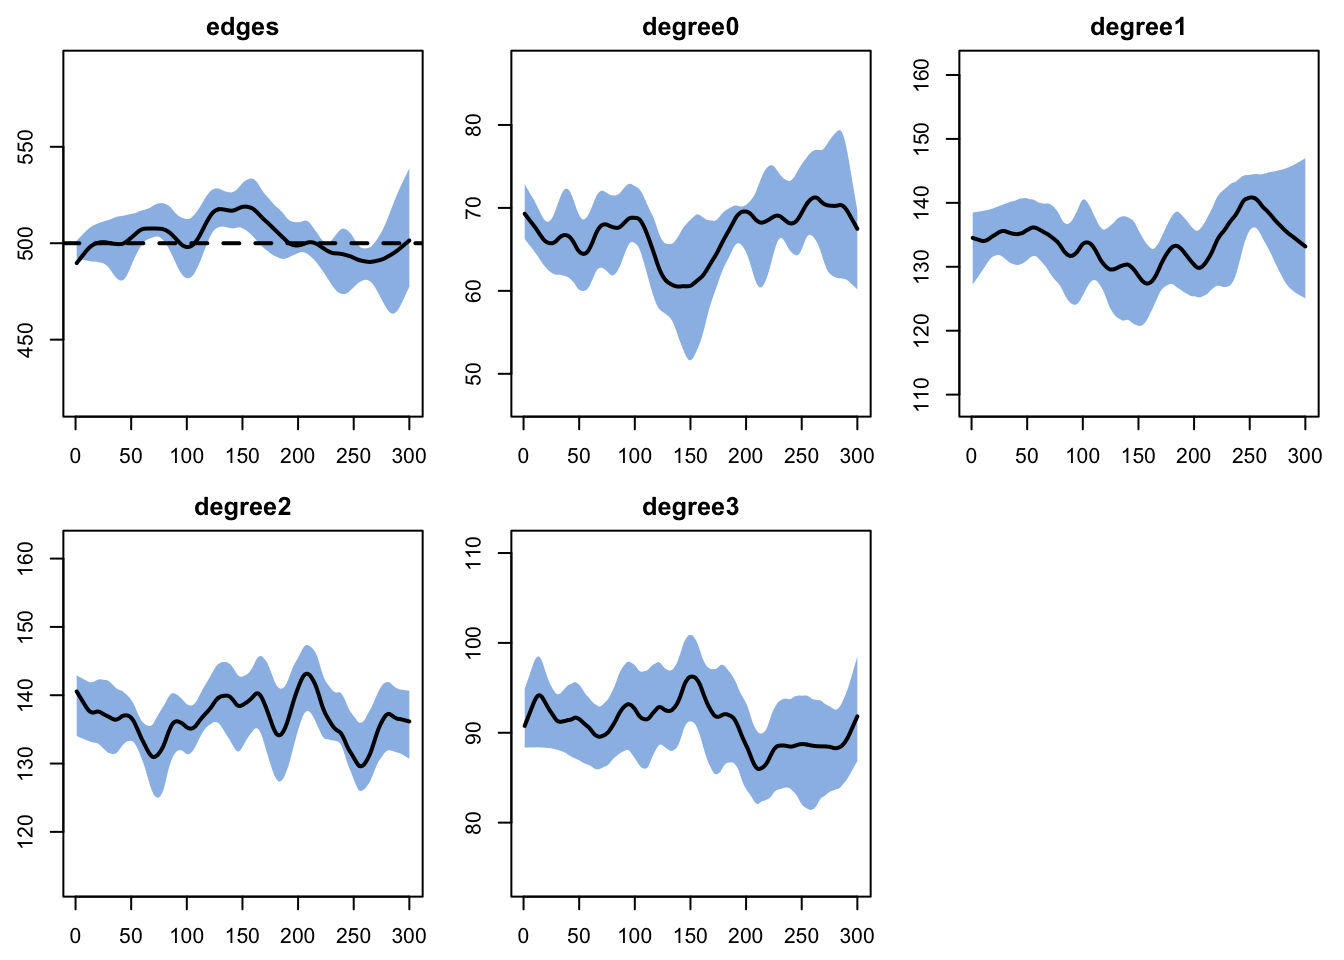
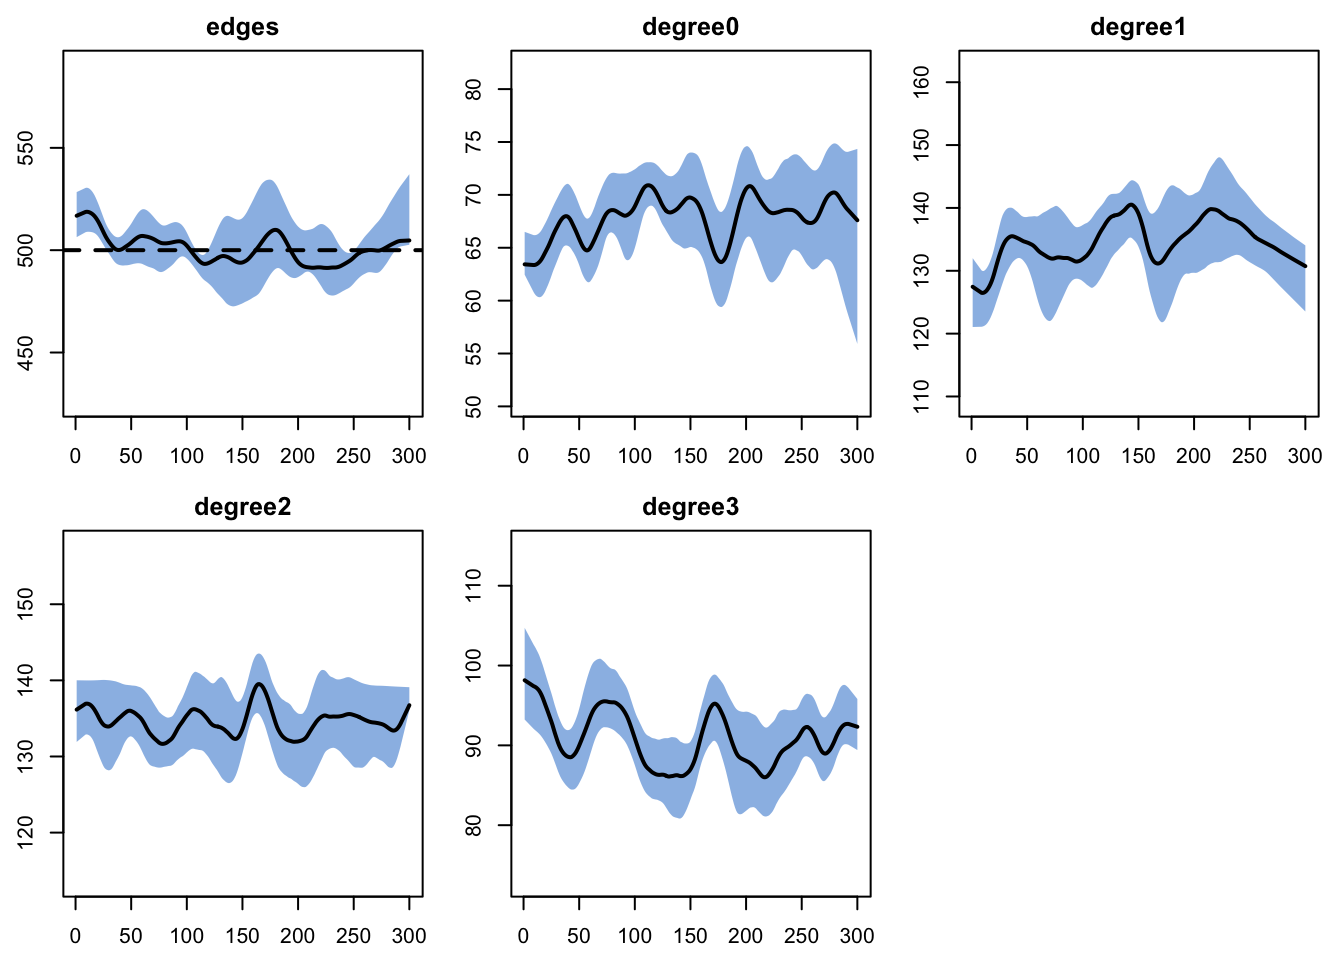
Seed the risk compensation run and state what holds across runs
The page called iso.mult = 0.1 "household-only contacts", but the model
has one uniform network; the text now says it holds contact with every
partner to 10% of the healthy rate. Re-rendering for that change gave a
different realization, because the run was not seeded, and two sentences
did not hold up: the naive model "overstates the percent reduction by a
factor of two or more" and the dynamic model "barely moves." Across six
runs with different seeds the naive reduction was 1.3 to 2.2 times the
dynamic one, and 34 to 60% for the dynamic model. The naive model
projected the larger reduction, and needed about half the inf.prob, in
every run.

The run is now seeded, the page reports this run's reductions inline,
and it says how much the gap varies and why (five simulations of 500
people per calibration step).

diff --git a/examples/behavioral-risk-compensation/README.md b/examples/behavioral-risk-compensation/README.md
@@ -9,7 +9,7 @@ Two structurally identical models are calibrated to the same cumulative attack r
 - **Naive model.** Contact rate is constant across the entire infectious period.
 - **Dynamic model.** Contact rate is reduced during an early (most symptomatic) sub-stage of infection and partially recovers during a late sub-stage.
 
-After calibration, both models are subjected to the same non-pharmaceutical intervention (NPI): an isolation policy that drives the early-stage contact rate to a low, fixed level (10% of the healthy rate with every partner). The naive model substantially over-estimates the percent reduction in cumulative incidence, because its untouched baseline contact rate during the symptomatic period was implausibly high.
+After calibration, both models are subjected to the same non-pharmaceutical intervention (NPI): an isolation policy that drives the early-stage contact rate to a low, fixed level (10% of the healthy rate with every partner). The naive model over-estimates the percent reduction in cumulative incidence, because its untouched baseline contact rate during the symptomatic period was implausibly high.
 
 ## Model Structure
 
@@ -97,7 +97,7 @@ Same intervention, different starting points:
 - Naive baseline `mult.early` was 1.0, dropping to 0.1 is a 90% reduction.
 - Dynamic baseline `mult.early` was 0.3, dropping to 0.1 is a 67% reduction.
 
-The naive model therefore projects a much larger reduction in cumulative incidence than the dynamic model. The mechanism: the naive model gives itself more "room to intervene" by assuming a higher symptomatic-period baseline than the dynamic model considers realistic.
+The naive model therefore projects a larger reduction in cumulative incidence than the dynamic model: across six runs with different seeds, 1.3 to 2.2 times as large. The run is seeded so that the page renders reproducibly. The mechanism: the naive model gives itself more "room to intervene" by assuming a higher symptomatic-period baseline than the dynamic model considers realistic.
 
 ## Module Execution Order
 
